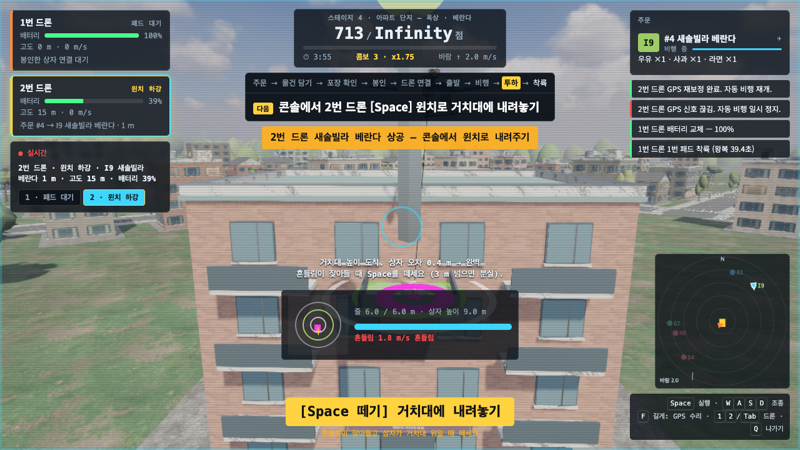
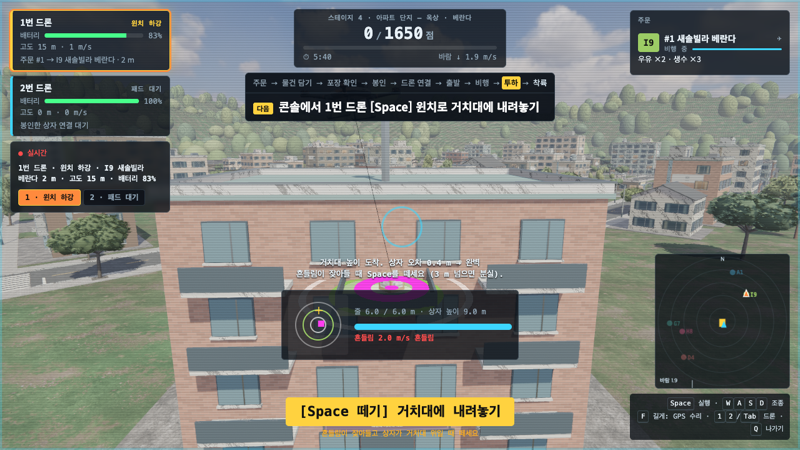
fix(stage4): keep balcony round trips under 40 s
Moves the balcony stops closer to the base (H8 about 161 m, I9 about
140 m) so lowering the box and waiting for the swing to settle still fit
the 30-40 s round trip. The bot now lets go sooner once the box is inside
the 2 m ring. Three full Stage 4 runs measured H8 31.5-38.2 s and I9
30.0-38.6 s; the target stays 1650 (about 82% of the bot's 6th-delivery
mean). Radii and scoring are unchanged.

diff --git a/src/config.ts b/src/config.ts
@@ -147,8 +147,8 @@ export const DESTINATIONS: Destination[] = [
   { id: 'E5', name: '노을 테라스', x: 120, z: 160, color: 0xba68c8, kind: 'ground', y: 0 },
   { id: 'F6', name: '강변 초등학교', x: -40, z: 205, color: 0xfff176, kind: 'ground', y: 0 },
   { id: 'G7', name: '한빛아파트 옥상', x: -205, z: 8, color: 0x4db6ac, kind: 'roof', y: 18 },
-  { id: 'H8', name: '한빛아파트 베란다', x: -182, z: 46, color: 0xf06292, kind: 'balcony', y: 9 },
-  { id: 'I9', name: '새솔빌라 베란다', x: 122, z: -138, color: 0x9ccc65, kind: 'balcony', y: 9 },
+  { id: 'H8', name: '한빛아파트 베란다', x: -156, z: 40, color: 0xf06292, kind: 'balcony', y: 9 },
+  { id: 'I9', name: '새솔빌라 베란다', x: 93, z: -105, color: 0x9ccc65, kind: 'balcony', y: 9 },
 ];
 
 const GROUND_STOPS = DESTINATIONS.filter(d => d.kind === 'ground').map(d => d.id);

diff --git a/README.md b/README.md
@@ -103,7 +103,7 @@ The first playable build was only the brief's loop: load, launch, drop, land. Af
 - It steers drops and landings using the `?debug=1` hook to read the aim error.
 - It forces a battery-low event (Stage 1) and a rotor fault (Stage 2), and handles the GPS faults that occur.
 - On Stage 3 it packs an ice pack into every cold box and, for fragile orders, lets the drone settle below 0.95 m/s before it drops.
-- On Stage 4 it drops on the roof pad like a ground ring. At a balcony it lines up over the cradle, holds Space, keeps the hook upwind of the cradle by the box's average wind offset, and lets go at cradle height once the box is within 0.7 m and swinging under 0.6 m/s (or later with looser limits).
+- On Stage 4 it drops on the roof pad like a ground ring. At a balcony it lines up over the cradle, holds Space, keeps the hook upwind of the cradle by the box's average wind offset, and lets go at cradle height once the box is within 0.7 m and swinging under 0.6 m/s (after 2 s it accepts 1 m and 0.9 m/s, after 4.5 s anything inside the 2 m ring).
 - It plays all four stages to the end, runs the shift clock out once to check the lose condition, and checks the phone-width notice.
 
 Each stage's first trip runs at real speed. After that the bot runs game time at x3 (`PLAYTEST_SPEED`), so these times are game seconds.
@@ -125,7 +125,7 @@ Runs A–D (before the realism pass) measured 16 round trips from **31.0 to 38.1
 
 Stage 3 run (2026-11-24, all three stages in one run): Stage 1 clear 713/620 in 112.3 s (trips 32.9, 36.9), Stage 2 clear 1806/1460 in 174.5 s (trips 34.5, 37.5, 32.3, 35.3, 35.9), Stage 3 clear 1763/1600 in 160.9 s (trips 32.9, 34.8, 33.9, 34.1). The fragile drops left at 0.1–0.9 m/s; no order went warm.
 
-Stage 4 runs (2026-11-24). Full four-stage run: Stage 1 clear 713/620 (trips 31.9, 37.2), Stage 2 clear 1806/1460, Stage 3 clear 1688/1600, Stage 4 clear 1806/1650 in 179.8 s (trips 33.4, 37.5, 37.2, 36.3, 38.2; that run drew no balcony order). `PLAYTEST_ONLY=4 PLAYTEST_FULL=1` runs, which play the whole 6:00: round trips D4 31.9–35.3 s, A1 34.1–35.6 s, G7 (roof) 33.5–39.4 s, H8 and I9 (balcony) 35.1–40.3 s, so the winch keeps balcony trips at the top of the 30–40 s band. Winch releases landed 0.2–1.0 m from the cradle centre. The bot scored 1893–2043 at its 6th delivery and 3613–3763 at the end, so the target is 1650 (about 84% of the 6th-delivery average).
+Stage 4 runs (2026-11-24, after the balcony round-trip pass). Balcony stops sit closer to the base than the ground stops (H8 about 161 m, I9 about 140 m) because lowering the box and waiting for the swing to settle add 2–8 s at the stop. Three `PLAYTEST_ONLY=4 PLAYTEST_FULL=1` runs, which play the whole 6:00: round trips H8 31.5–38.2 s, I9 30.0–38.6 s, D4 31.9–35.8 s, A1 33.6–35.7 s, G7 (roof) 32.7–37.4 s. Winch releases landed 0.37–0.96 m from the cradle centre. The bot scored 1931–2081 at its 6th delivery (mean 2002) and 3613–4131 at the end, so the target is 1650 (about 82% of the 6th-delivery mean). A four-stage run cleared every stage: 713/620, 1806/1460, 1728/1600, 1943/1650.
 
 How the Stage 3 target was set: with `PLAYTEST_FULL=1` the bot plays the whole shift. Stage 2 reaches 1806 on its 6th delivery (the 1460 target is 81 % of that) and 3706–4086 by the end. Stage 3 reaches 1936 on its 6th delivery and 4116–4241 by the end, so 1600 (83 % of 1936) asks for the same number of deliveries as Stage 2. Order sizes are random, so the score at the clearing delivery varies between runs.
 
